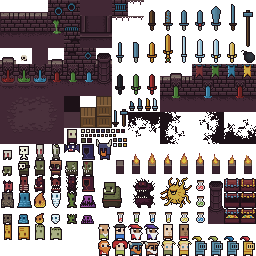
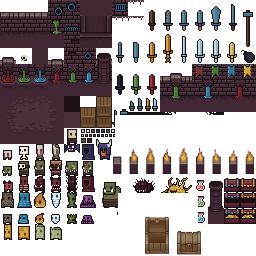
added door interaction

Changed region(s): [[0.375, 0.75, 1.0, 1.0], [0.4375, 0.4375, 1.0, 0.6875], [0.7812, 0.4375, 1.0, 0.5625]]

diff --git a/core/src/com/chuchu/puzzlegame/Sprites/Door.java b/core/src/com/chuchu/puzzlegame/Sprites/Door.java
@@ -1,0 +1,55 @@
+package com.chuchu.puzzlegame.Sprites;
+
+import com.badlogic.gdx.Gdx;
+import com.badlogic.gdx.graphics.Texture;
+import com.badlogic.gdx.maps.tiled.TiledMap;
+import com.badlogic.gdx.math.Rectangle;
+import com.badlogic.gdx.physics.box2d.World;
+import com.badlogic.gdx.scenes.scene2d.Stage;
+import com.badlogic.gdx.scenes.scene2d.ui.Image;
+import com.badlogic.gdx.scenes.scene2d.ui.Skin;
+import com.chuchu.puzzlegame.Global.Files;
+import com.chuchu.puzzlegame.Screens.Room1;
+import com.chuchu.puzzlegame.Screens.Room2;
+import com.rafaskoberg.gdx.typinglabel.TypingLabel;
+
+public class Door extends InteractiveTileObject {
+    private TypingLabel dialogue;
+    private Image dialogueBox;
+    private static boolean doorUnlocked = false;
+    private Skin skin;
+    public Door(World world, TiledMap map, Rectangle bounds, float unitScale, Stage stage) {
+        super(world, map, bounds, unitScale, stage);
+        fixture.setUserData(this);
+        skin = new Skin(Gdx.files.internal(Files.uiskin));
+        dialogueBox = new Image(new Texture(Gdx.files.internal(Files.dialogImg)));
+        dialogueBox.setSize(700, 200);
+        dialogueBox.setPosition((Gdx.graphics.getWidth() / 2f) - (dialogueBox.getWidth() / 2),0);
+    }
+
+    @Override
+    public void onHit() {
+        Gdx.app.log("Door", "HIT!");
+        if(!doorUnlocked) {
+            dialogue = new TypingLabel("The door is locked ...", skin);
+            dialogue.setPosition(dialogueBox.getX() + 22, dialogueBox.getHeight() - 100);
+            Room1.stageTesting.addActor(dialogueBox);
+            Room1.stageTesting.addActor(dialogue);
+            Room1.showDialogue = true;
+        } else {
+            System.out.println("Door is now unlocked");
+        }
+    }
+
+    @Override
+    public void onBeginContact() {
+        Gdx.app.log("Door", "Begin contact");
+        addActor();
+    }
+
+    @Override
+    public void onEndContact() {
+        Gdx.app.log("Door", "End contact");
+        removeActor();
+    }
+}

diff --git a/core/src/com/chuchu/puzzlegame/Tools/Room2WorldCreator.java b/core/src/com/chuchu/puzzlegame/Tools/Room2WorldCreator.java
@@ -8,6 +8,7 @@ import com.badlogic.gdx.math.Rectangle;
 import com.badlogic.gdx.physics.box2d.*;
 import com.badlogic.gdx.scenes.scene2d.Stage;
 import com.chuchu.puzzlegame.PuzzleGame;
+import com.chuchu.puzzlegame.Sprites.Door;
 import com.chuchu.puzzlegame.Sprites.TableObject;
 import com.chuchu.puzzlegame.Sprites.Torch;
 
@@ -26,7 +27,9 @@ public class Room2WorldCreator {
                     if (objectLayer.getName().equals("Torch")) {
                         new Torch(world, tiledMap, rectangle, unitScale, stage);
                     }
-
+                    if (objectLayer.getName().equals("Door")) {
+                        new Door(world, tiledMap, rectangle, unitScale, stage);
+                    }
                     if (objectLayer.getName().equals("Tables")) {
                         new TableObject(world, tiledMap, rectangle, unitScale, stage);
                     }

diff --git a/core/src/com/chuchu/puzzlegame/Sprites/Torch.java b/core/src/com/chuchu/puzzlegame/Sprites/Torch.java
@@ -19,11 +19,12 @@ public class Torch extends InteractiveTileObject {
         Gdx.app.log("Torch", "HIT!");
         torchOn = !torchOn;
         if(torchOn) {
-            Room1.tiledMap.getLayers().get(2).setVisible(true);
-            Room1.tiledMap.getLayers().get(3).setVisible(false);
+            Room1.tiledMap.getLayers().get(10).setVisible(true);
+            Room1.tiledMap.getLayers().get(11).setVisible(false);
+            System.out.println("Shit123");
         } else {
-            Room1.tiledMap.getLayers().get(2).setVisible(false);
-            Room1.tiledMap.getLayers().get(3).setVisible(true);
+            Room1.tiledMap.getLayers().get(10).setVisible(false);
+            Room1.tiledMap.getLayers().get(11).setVisible(true);
         }
     }
 

diff --git a/core/src/com/chuchu/puzzlegame/Sprites/InteractiveTileObject.java b/core/src/com/chuchu/puzzlegame/Sprites/InteractiveTileObject.java
@@ -8,6 +8,7 @@ import com.badlogic.gdx.scenes.scene2d.Actor;
 import com.badlogic.gdx.scenes.scene2d.EventListener;
 import com.badlogic.gdx.scenes.scene2d.Stage;
 import com.chuchu.puzzlegame.PuzzleGame;
+import com.chuchu.puzzlegame.Screens.Room1;
 import com.chuchu.puzzlegame.Screens.Room2;
 import com.chuchu.puzzlegame.Tools.TileObjectClickListener;
 
@@ -75,6 +76,10 @@ public abstract class InteractiveTileObject extends Actor {
         if (Room2.stageTesting != null) {
             Room2.showDialogue = false;
             Room2.stageTesting.clear();
+        }
+        if (Room1.stageTesting != null) {
+            Room1.showDialogue = false;
+            Room1.stageTesting.clear();
         }
     }
 }

diff --git a/core/src/com/chuchu/puzzlegame/Screens/Room1.java b/core/src/com/chuchu/puzzlegame/Screens/Room1.java
@@ -67,7 +67,7 @@ public class Room1 implements Screen {
         //tiledMap.getLayers().get(2).setVisible(true);
 
         System.out.println(tiledMap.toString());
-        unitScale = 2;
+        unitScale = 4;
         tiledMapRenderer = new OrthogonalTiledMapRenderer(tiledMap, unitScale / PuzzleGame.PPM);
 
         // set camera
